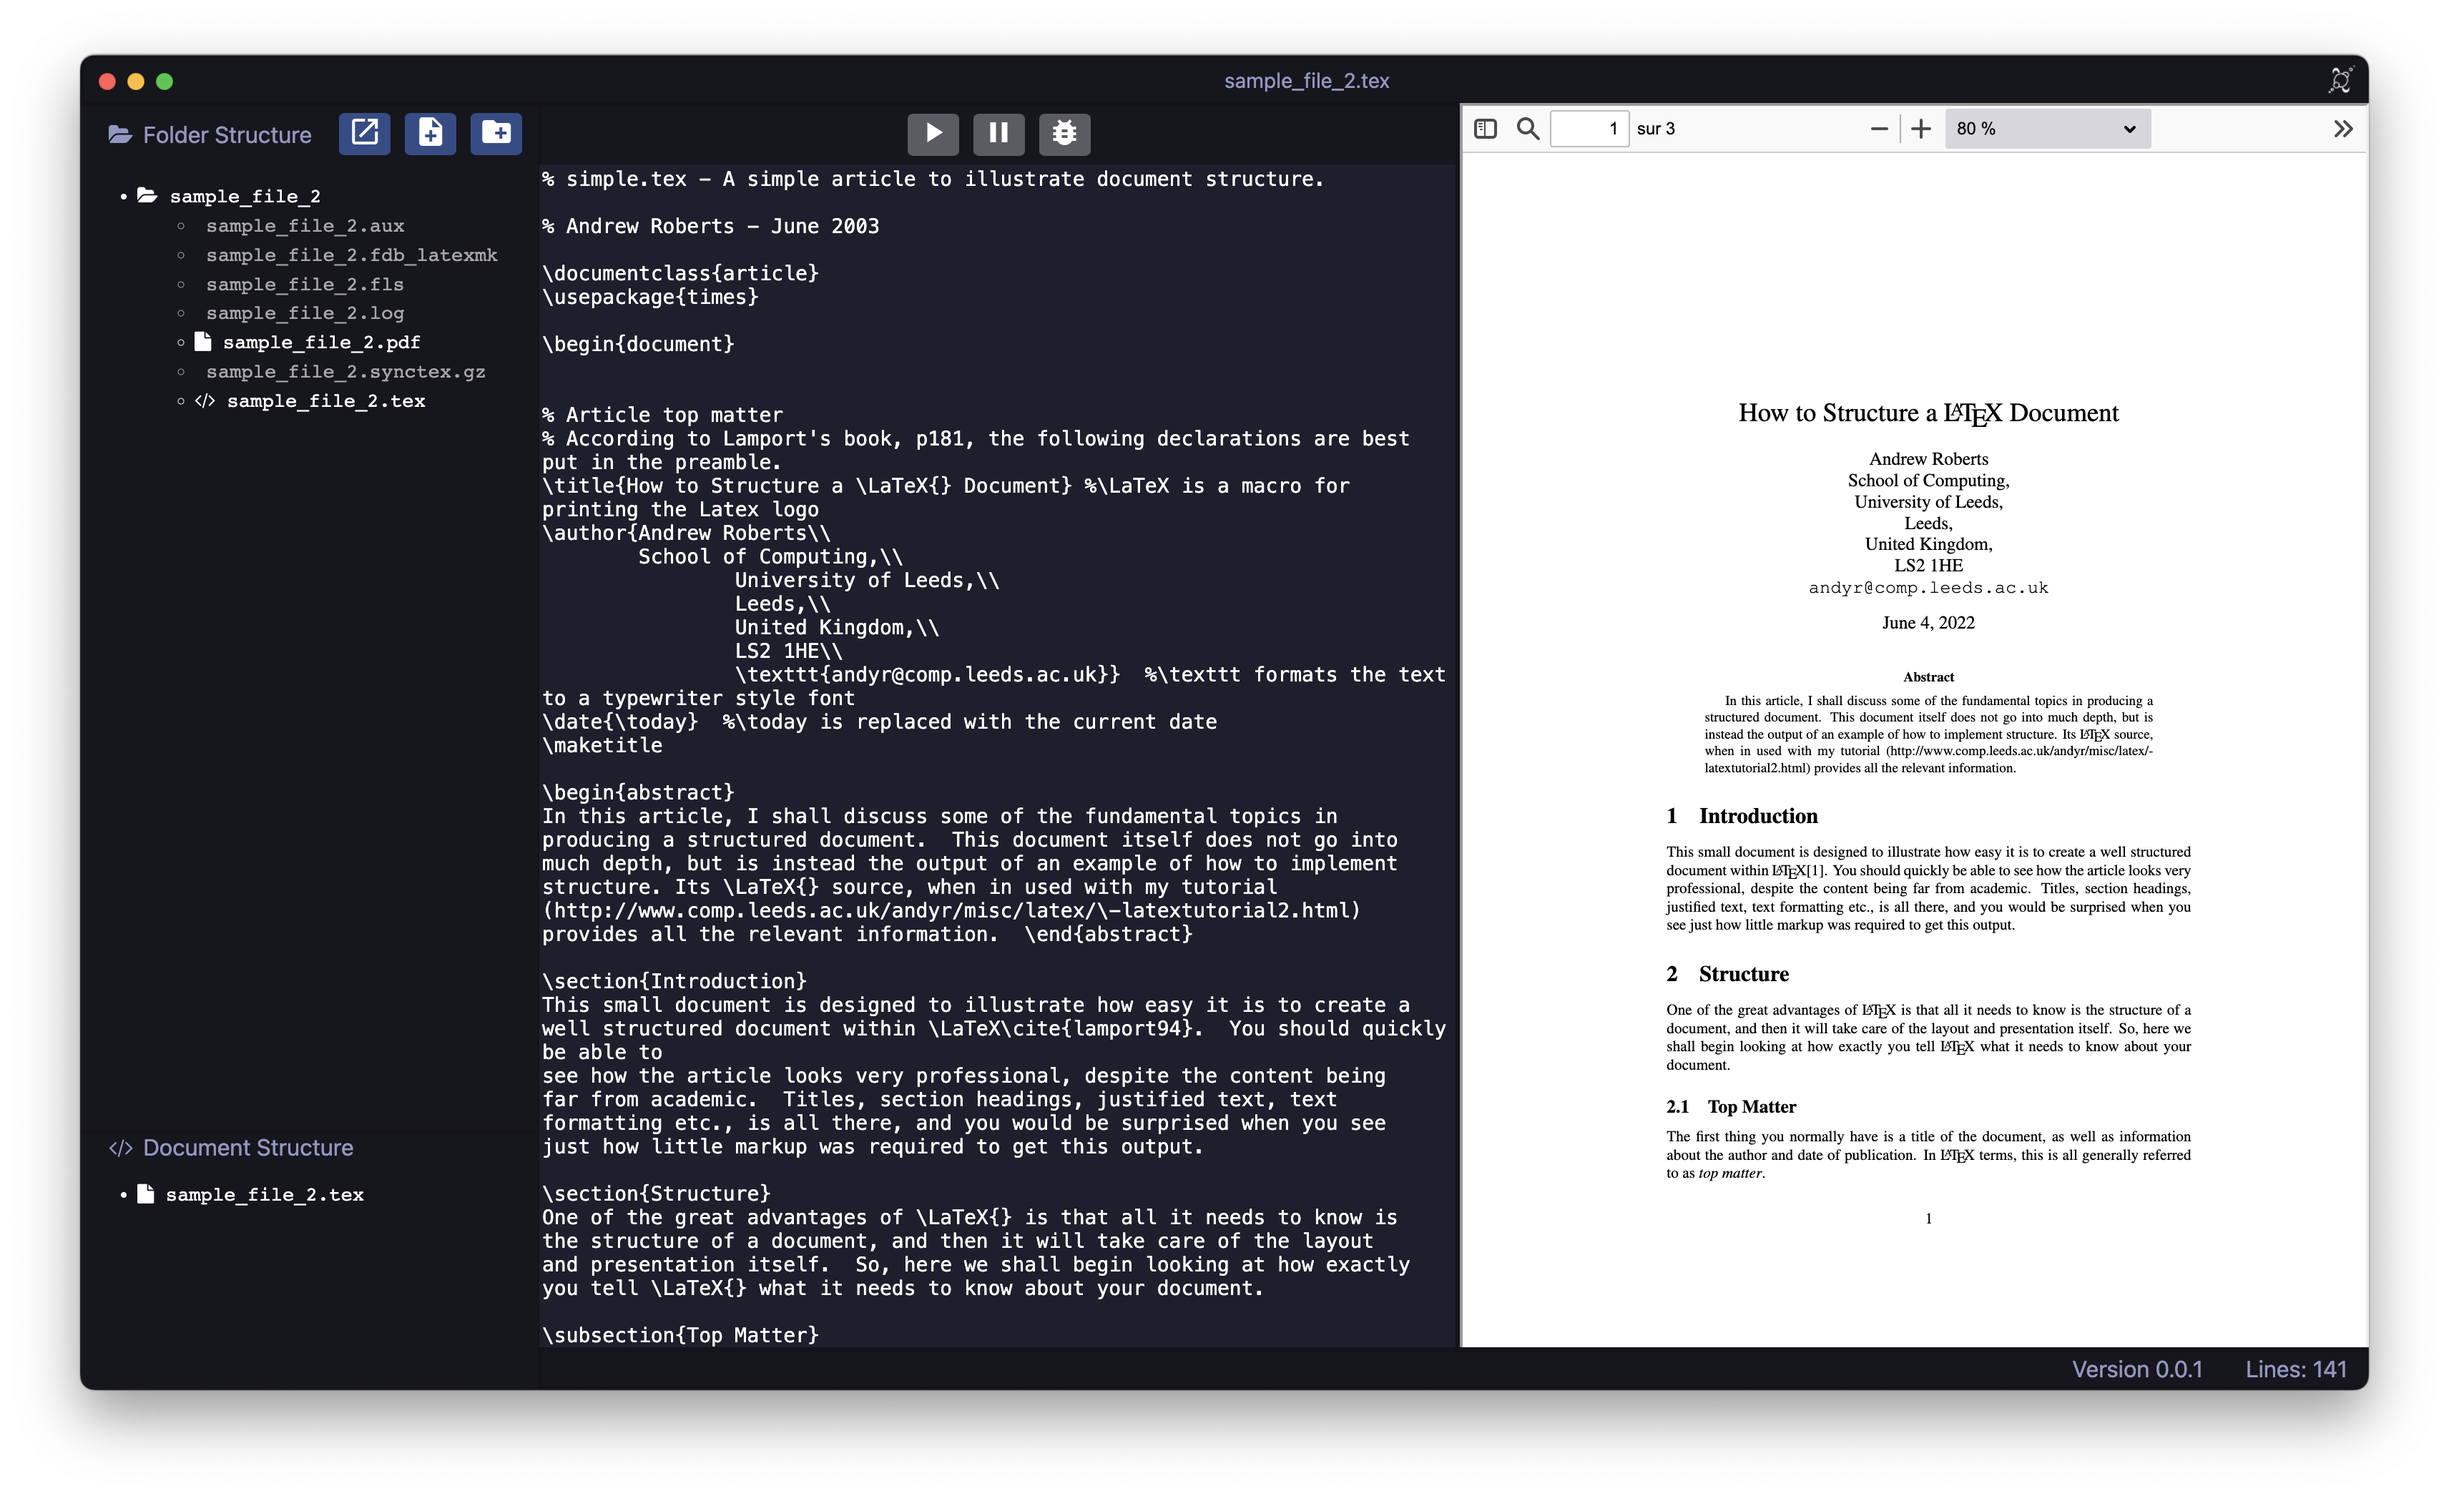
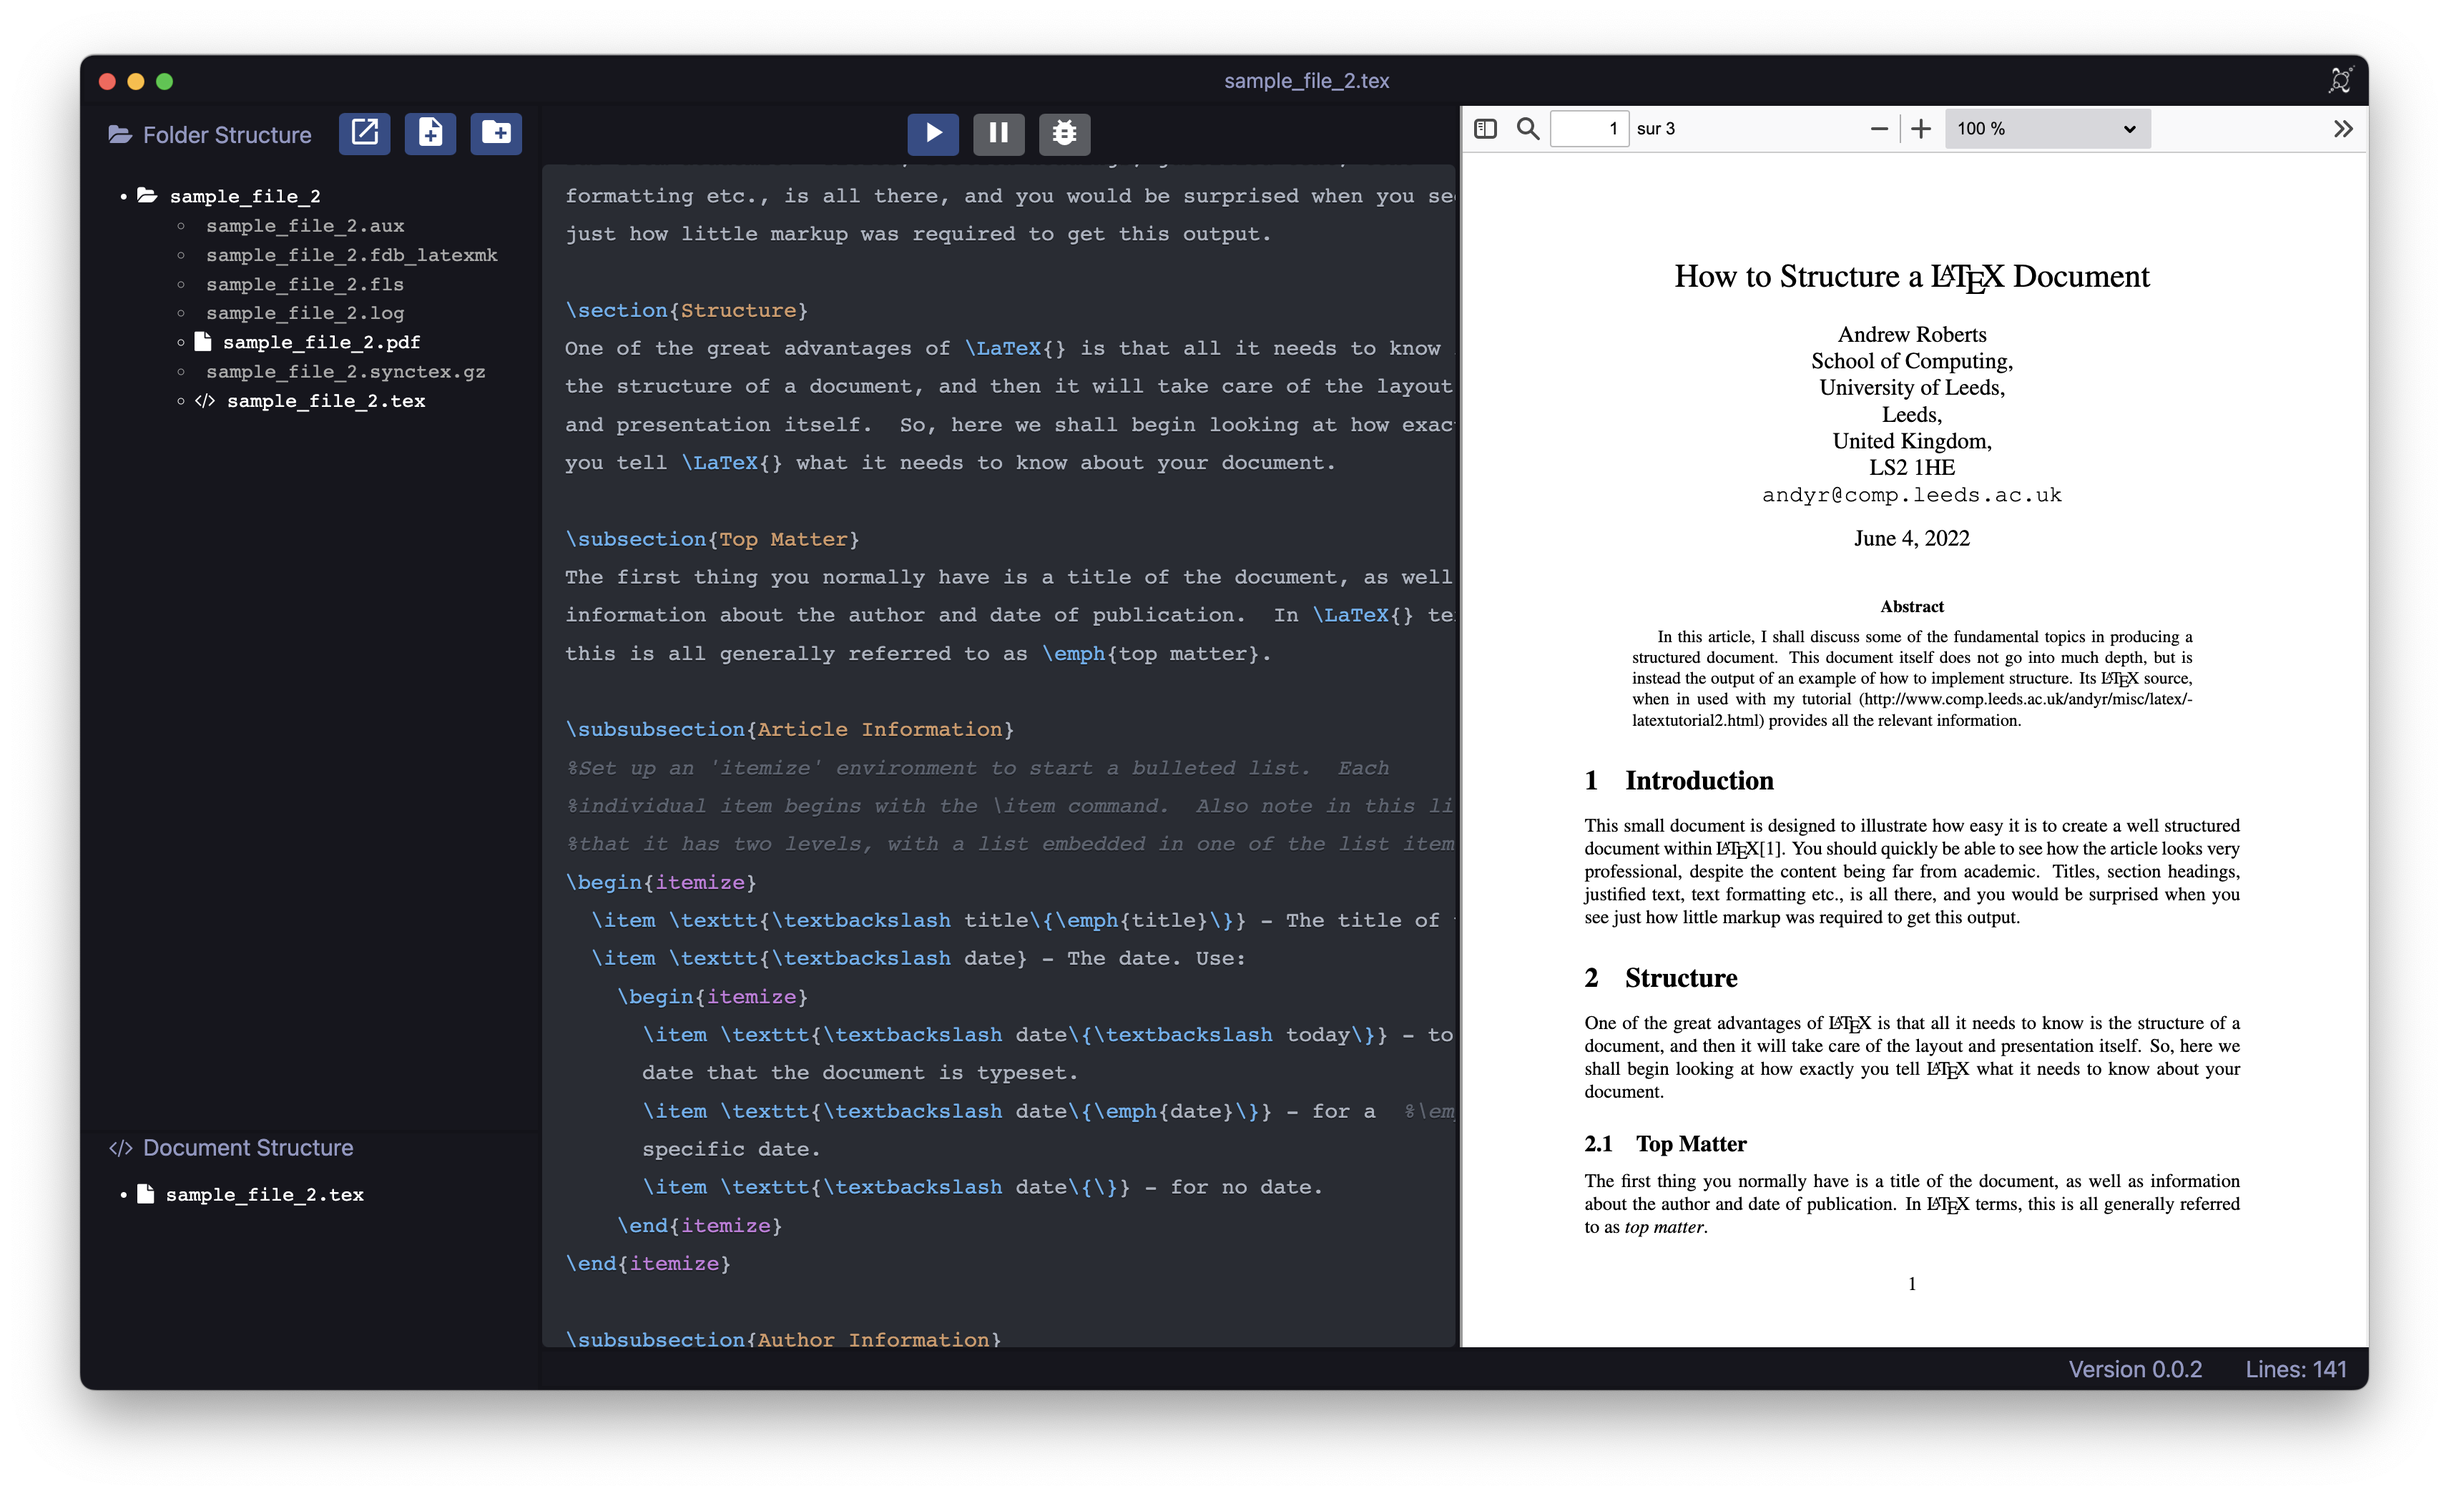
Updated screenshots and README

diff --git a/README.md b/README.md
@@ -67,7 +67,7 @@ Currently working on v0.0.2: early phase of developpement.
 | Show erros during compilation | :x: | v 0.0.3 |
 | Show generated PDF | :white_check_mark: | v 0.0.4 |
 | Line numbers | :x: | v 1.0.1 |
-| Syntax highlightning | :x: | v 1.0.2 |
+| Syntax highlightning | :white_check_mark: | v 1.0.2 |
 | File structure | :x: | v 1.0.3 |
 | Default templates | :x: | v 1.0.4 |
 
